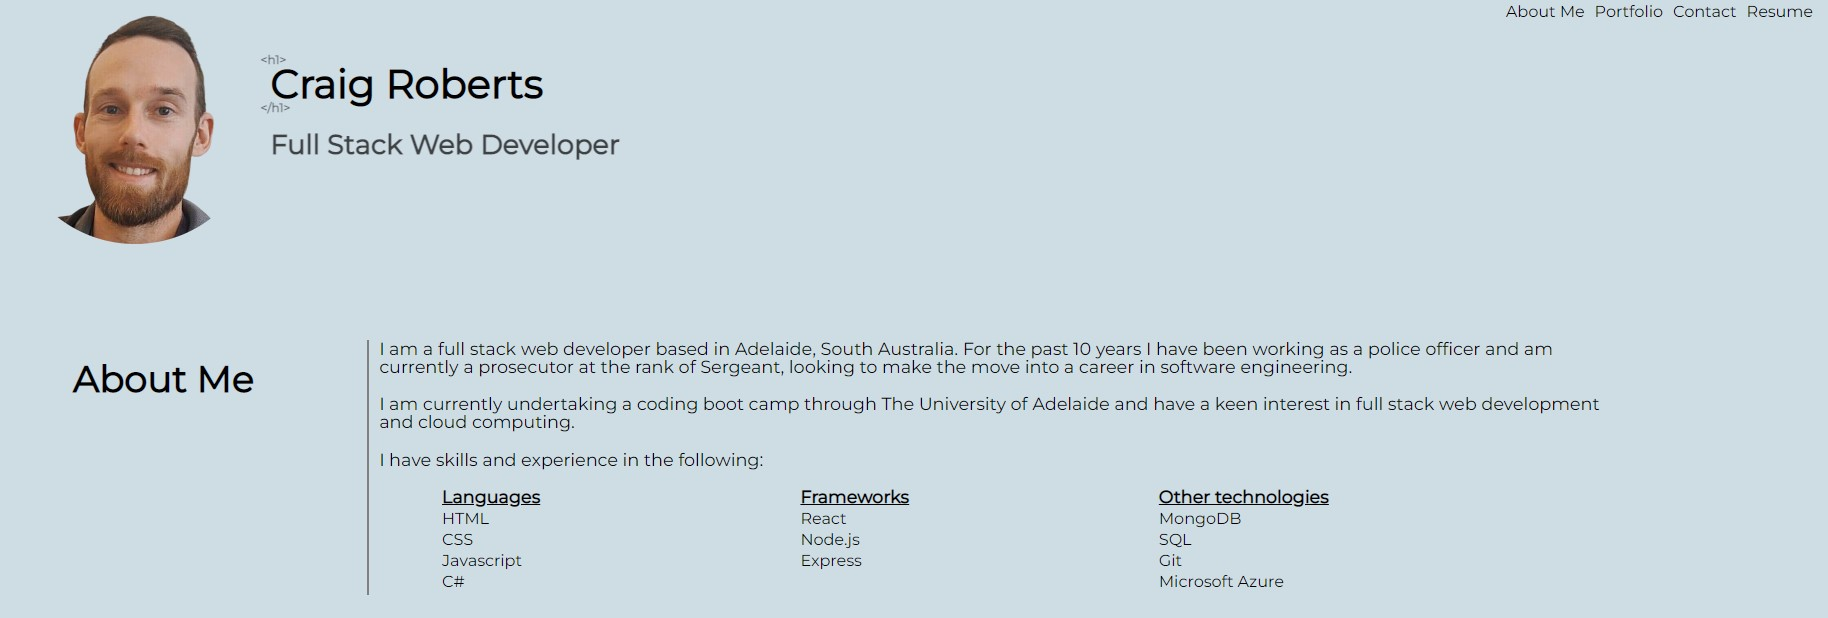
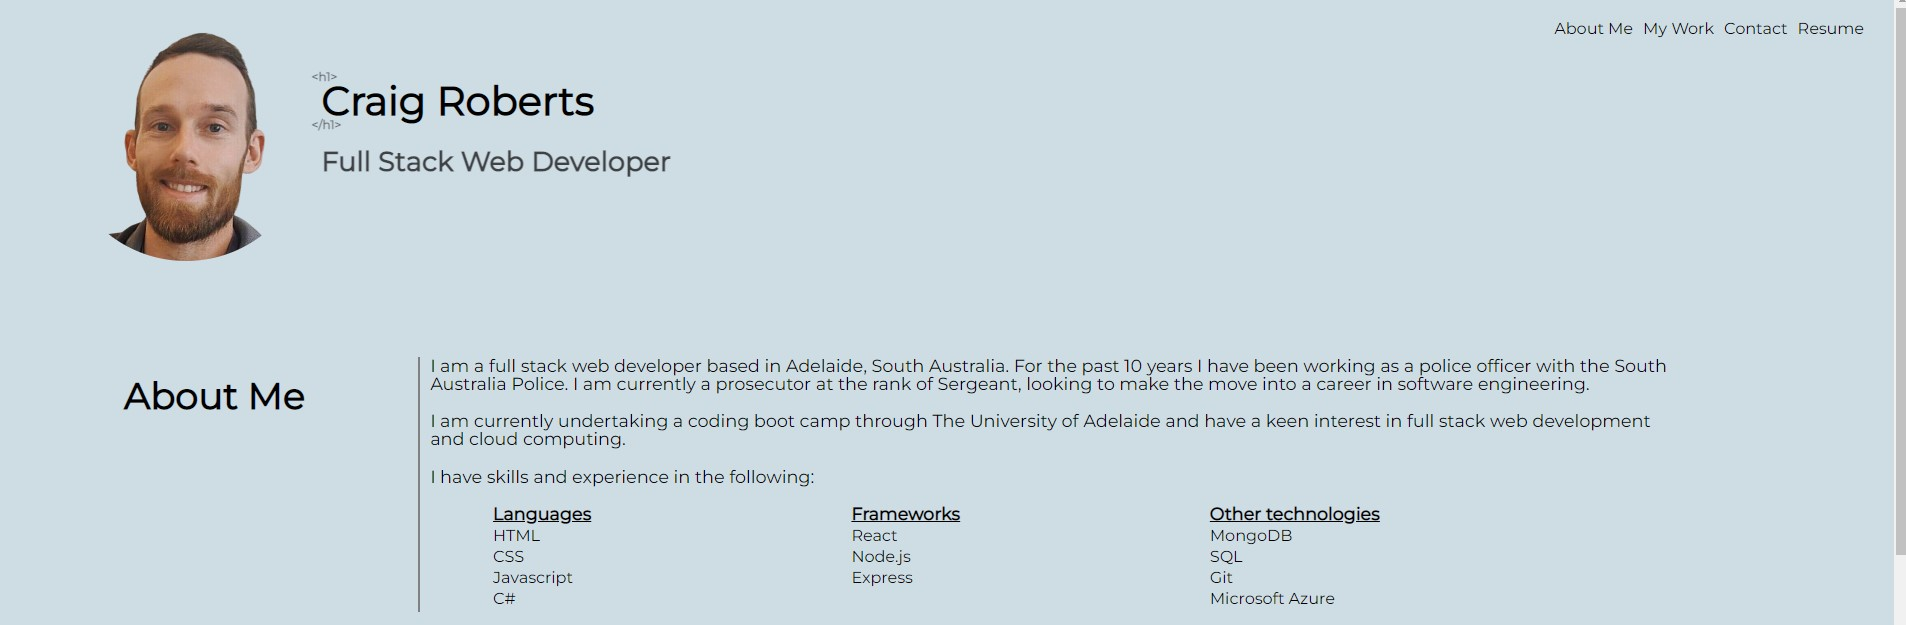
Updated portfolio header to My Work and screenshot to match

diff --git a/index.html b/index.html
@@ -23,7 +23,7 @@
       <nav>
         <ul>
           <li><a href="#about-me">About Me</a></li>
-          <li><a href="#portfolio">Portfolio</a></li>
+          <li><a href="#portfolio">My Work</a></li>
           <li><a href="#contact">Contact</a></li>
           <li><a href="/assets/Resume.txt" target="_blank">Resume</a></li>
         </ul>
@@ -80,7 +80,7 @@
 
     <!-- Portfolio section -->
     <main id="portfolio" class="grid-2-1">
-      <h2>Portfolio</h2>
+      <h2>My Work</h2>
 
       <!-- Portfolio flex container -->
       <div id="portfolio-flex-container" class="flex wrap">
